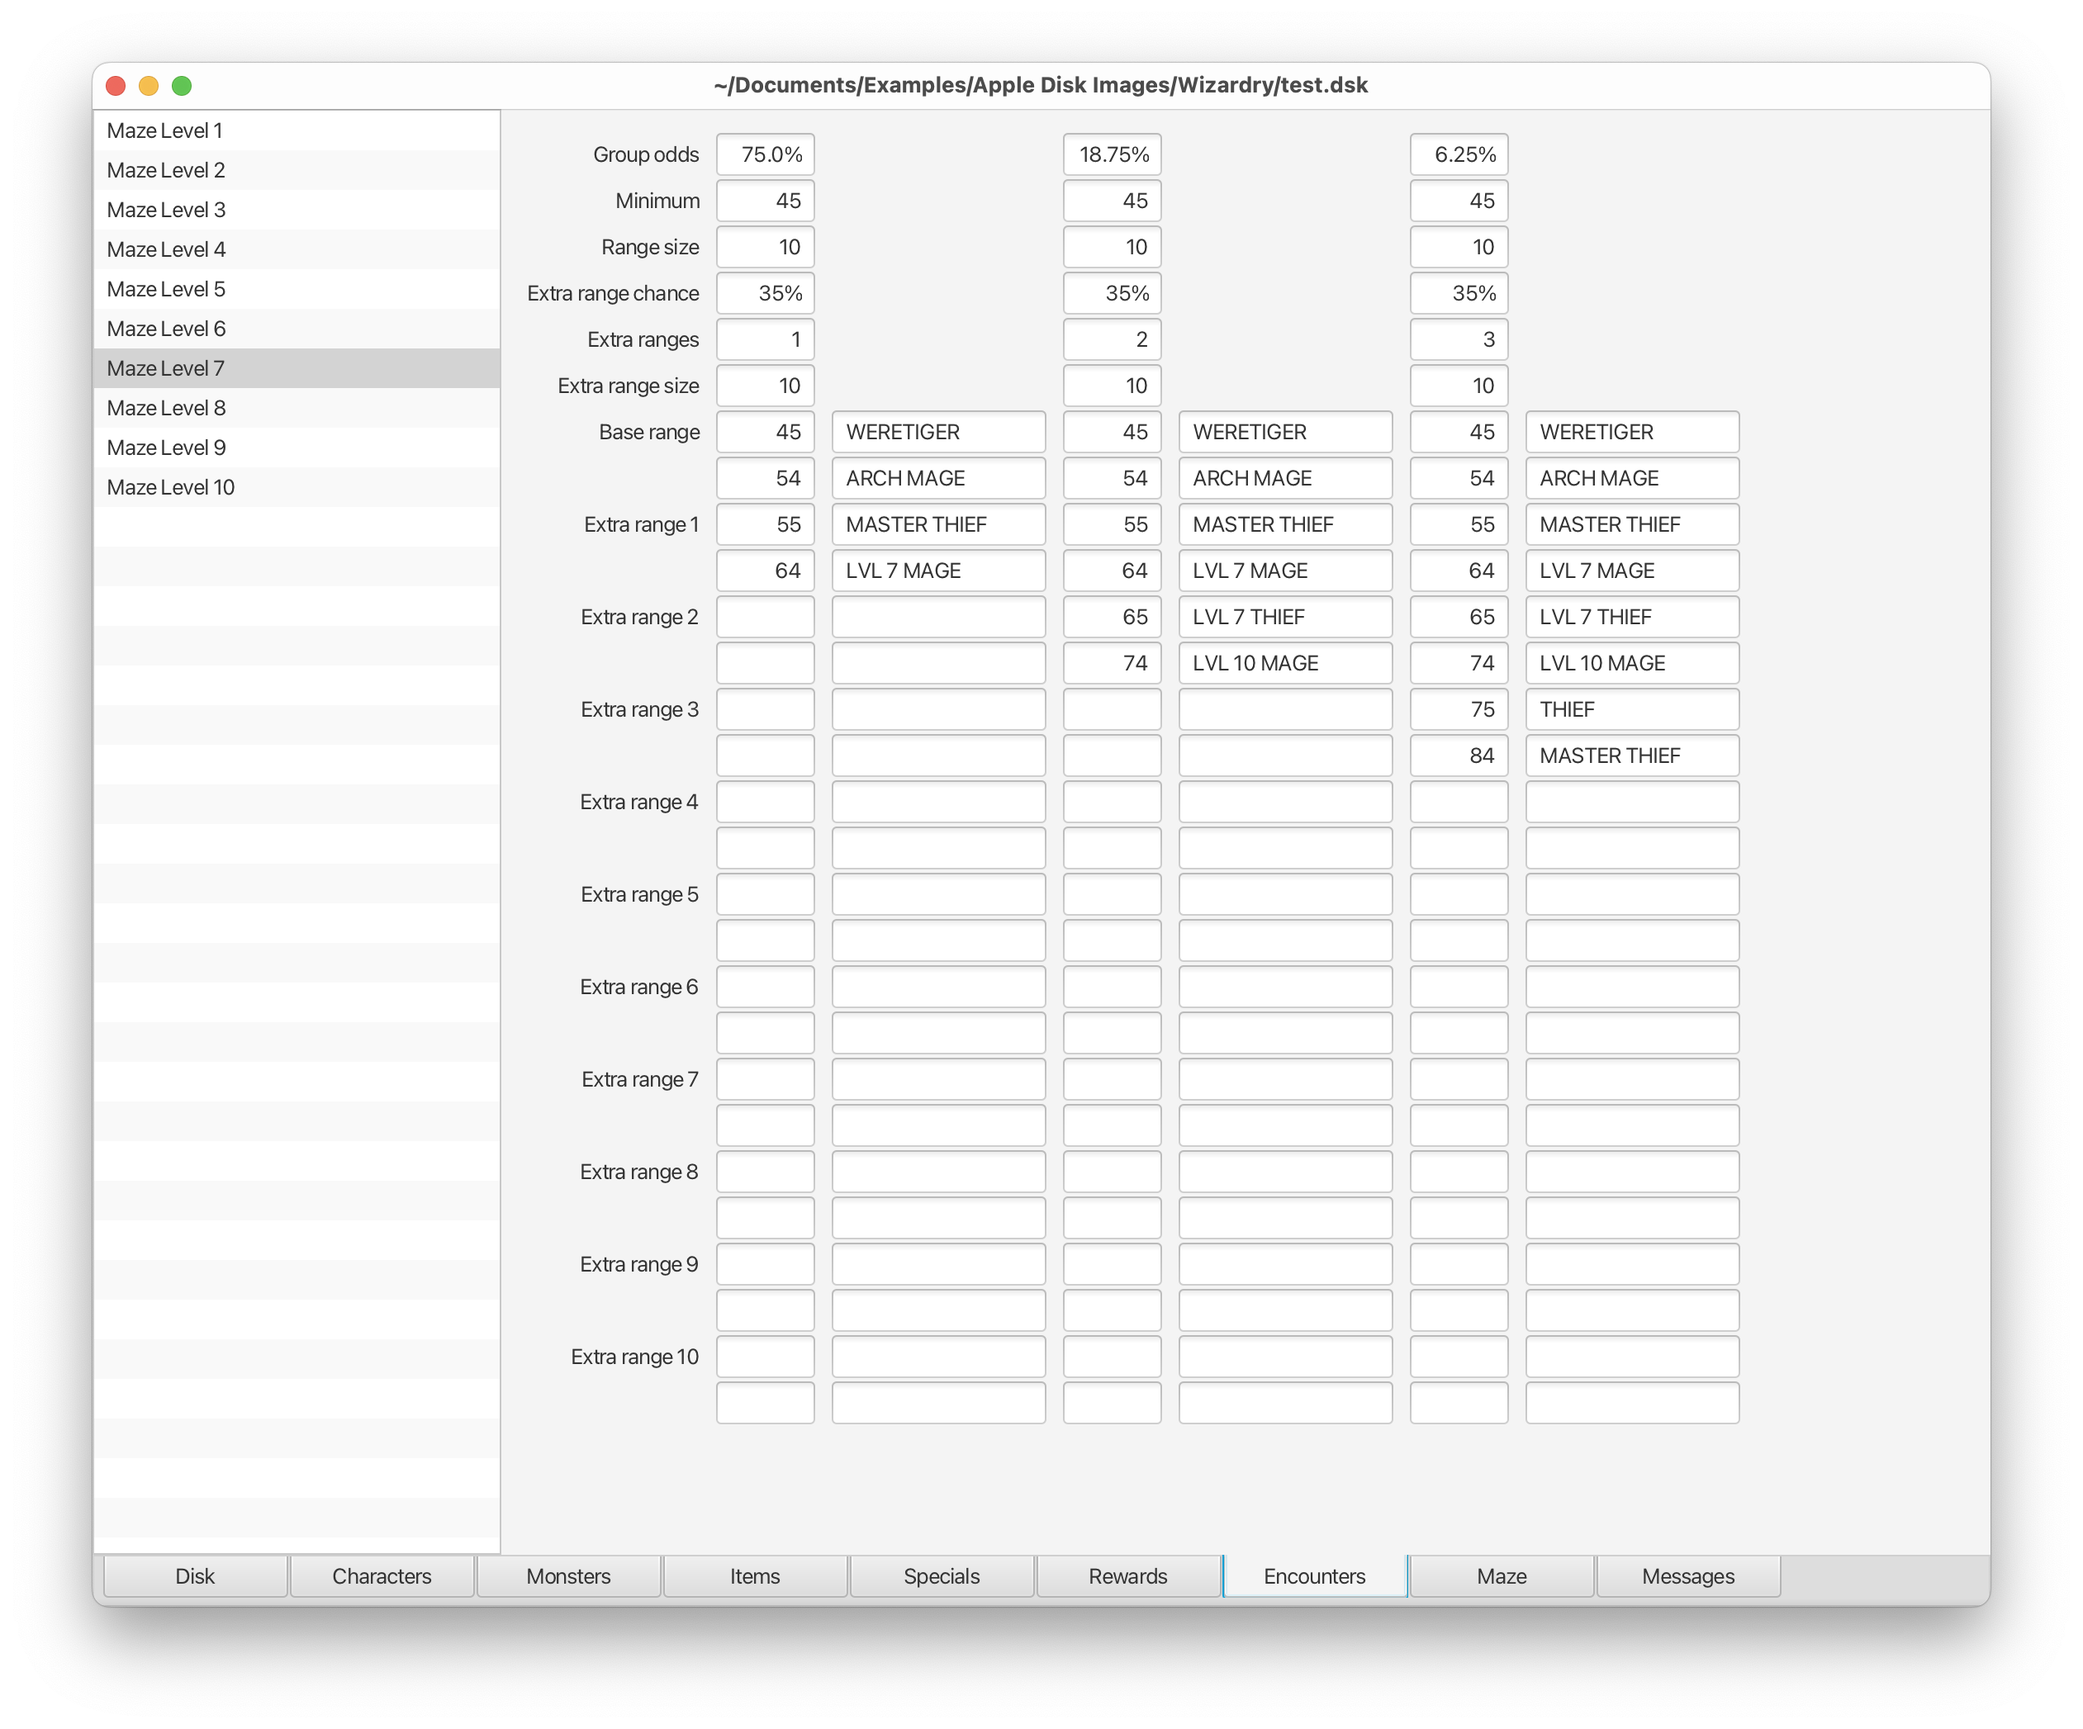
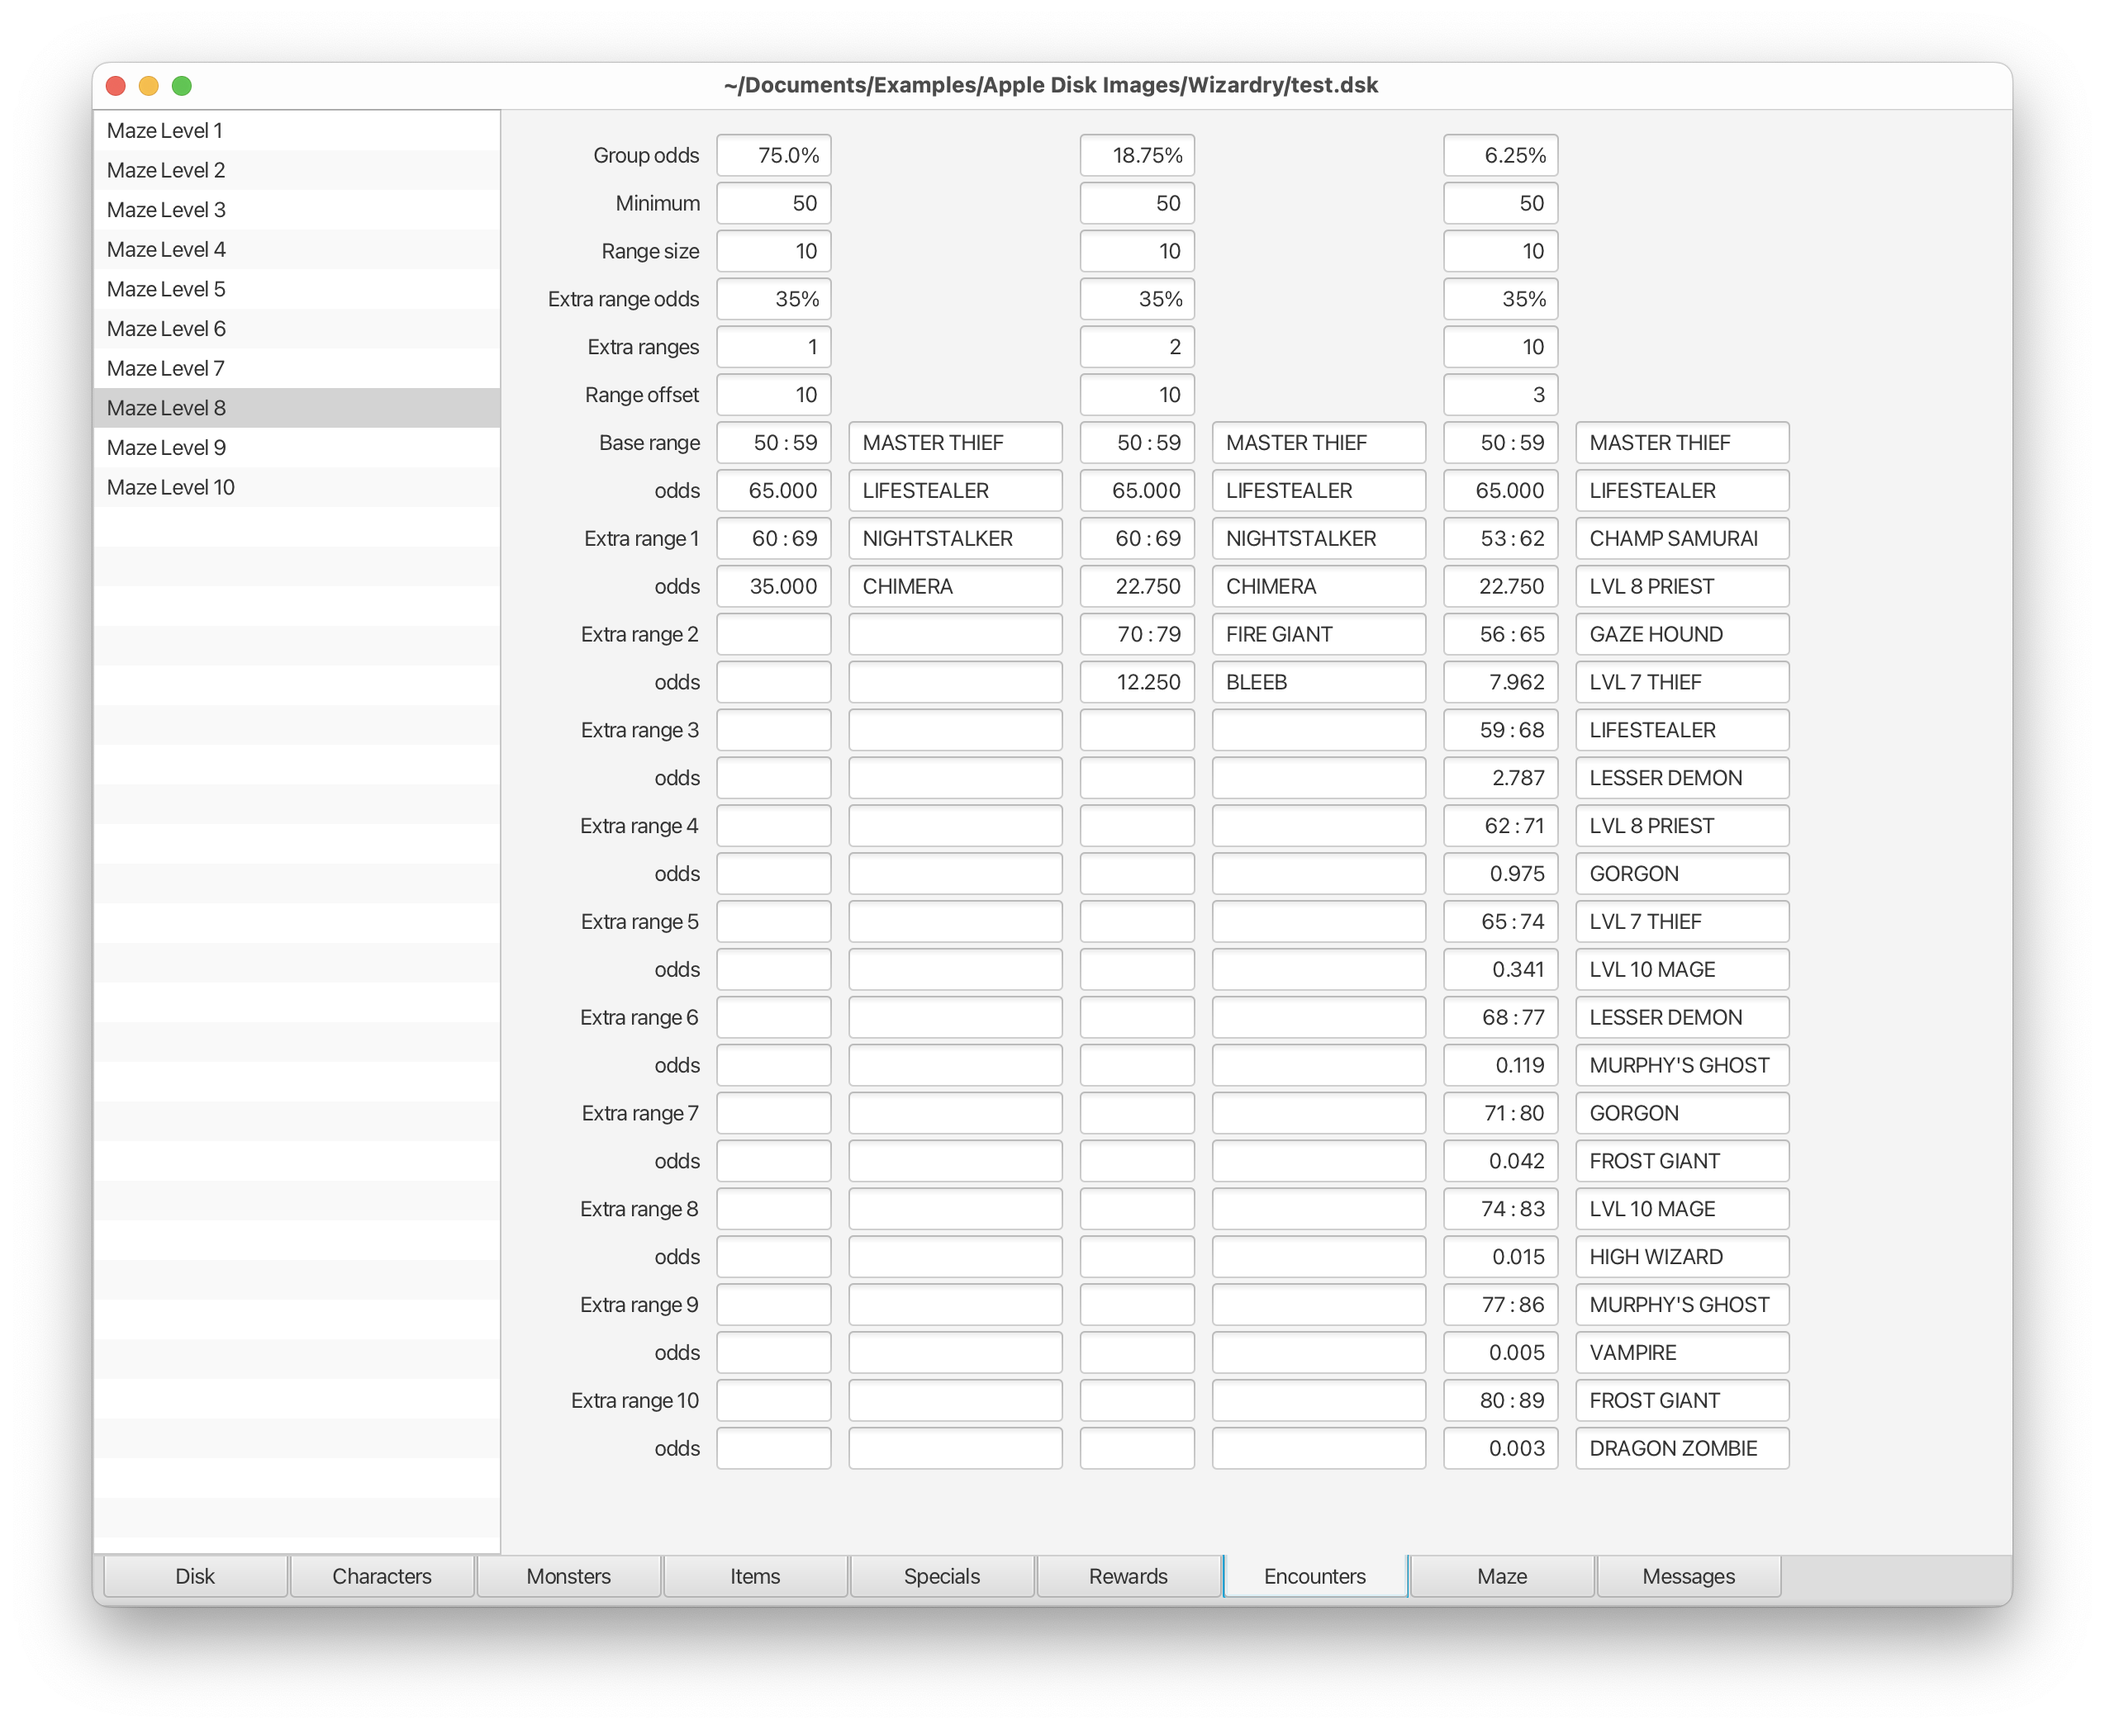
modified encounters screen

diff --git a/src/com/bytezone/wizardry/gui/EncounterPane.java b/src/com/bytezone/wizardry/gui/EncounterPane.java
@@ -29,15 +29,19 @@ public class EncounterPane extends DataPane
   public EncounterPane ()
   // ---------------------------------------------------------------------------------//
   {
-    setColumnConstraints (110, 60, 130, 60, 130, 60, 130, 570);
+    setColumnConstraints (110, 80, 130, 80, 130, 80, 130, 570);
 
-    String[] labels1 = { "Group odds", "Minimum", "Range size", "Extra range chance",
-        "Extra ranges", "Extra range size" };
+    String[] labels1 = { "Group odds", "Minimum", "Range size", "Extra range odds", "Extra ranges",
+        "Range offset" };
 
     String[] labels2 = new String[22];
     labels2[0] = "Base range";
+    labels2[1] = "odds";
     for (int i = 1; i < 11; i++)
+    {
       labels2[i * 2] = "Extra range " + i;
+      labels2[i * 2 + 1] = "odds";
+    }
 
     LabelPlacement lp1 = new LabelPlacement (0, 0, HPos.RIGHT, 1);
     DataPlacement dp1 = new DataPlacement (1, 0, Pos.CENTER_RIGHT, 1);
@@ -68,7 +72,6 @@ public class EncounterPane extends DataPane
       {
         display = new Display (wizardry);
         GridPane.setConstraints (display, 7, 1);
-        //      GridPane.setColumnSpan (display, 8);
         GridPane.setRowSpan (display, 12);
         gridPane.getChildren ().add (display);
       }
@@ -96,6 +99,8 @@ public class EncounterPane extends DataPane
       int worse01 = enemyOdds[i].worse01;
       int percWors = enemyOdds[i].percWors;
 
+      double[] oddsTable = enemyOdds[i].showOdds ();
+
       for (int row = 2; row < 22; row++)
       {
         setText (textOut2[i * 2][row], "");
@@ -111,12 +116,14 @@ public class EncounterPane extends DataPane
 
       int maxEnemy = minEnemy + range0n - 1;
       setMinMax (i * 2, 0, minEnemy, maxEnemy);
+      setText (textOut2[i * 2][1], String.format ("%5.3f%%", oddsTable[0] * 100));
 
       for (int row = 1; row <= worse01; row++)
       {
         minEnemy += multWors;
         maxEnemy += multWors;
         setMinMax (i * 2, row * 2, minEnemy, maxEnemy);
+        setText (textOut2[i * 2][row * 2 + 1], String.format ("%5.3f%%", oddsTable[row] * 100));
       }
     }
 
@@ -128,9 +135,9 @@ public class EncounterPane extends DataPane
   private void setMinMax (int index1, int index2, int minEnemy, int maxEnemy)
   // ---------------------------------------------------------------------------------//
   {
-    setText (textOut2[index1][index2], minEnemy);
+    setText (textOut2[index1][index2], minEnemy + " : " + maxEnemy);
     setText (textOut2[index1 + 1][index2], wizardry.getMonster (minEnemy).name);
-    setText (textOut2[index1][index2 + 1], maxEnemy);
+    //    setText (textOut2[index1][index2 + 1], maxEnemy);
     setText (textOut2[index1 + 1][index2 + 1], wizardry.getMonster (maxEnemy).name);
   }
 }

diff --git a/src/com/bytezone/wizardry/gui/DataPane.java b/src/com/bytezone/wizardry/gui/DataPane.java
@@ -21,7 +21,7 @@ import javafx.scene.layout.RowConstraints;
 public class DataPane extends Pane
 // -----------------------------------------------------------------------------------//
 {
-  private static final int ROW_HEIGHT = 25;
+  private static final int ROW_HEIGHT = 26;
 
   GridPane gridPane = new GridPane ();
 
